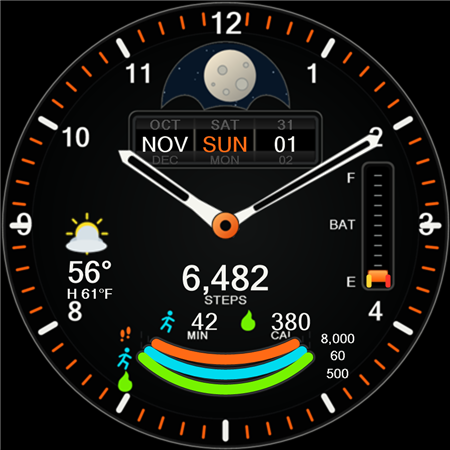
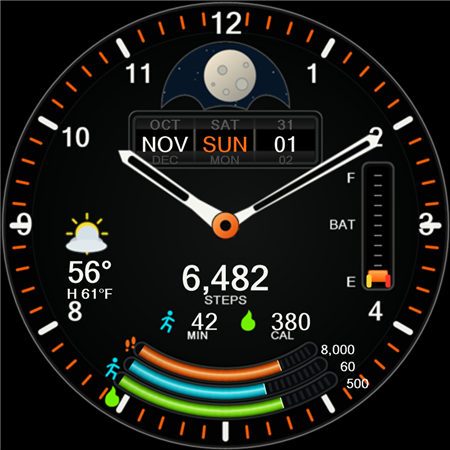
Rework activity indicators as concentric metal tracks

Changed region(s): [[0.2178, 0.7156, 0.84, 0.9333]]

diff --git a/README.md b/README.md
@@ -8,7 +8,9 @@ scaled by Wear OS to the display. Artwork follows
 The native face includes skeleton analog hands, a two-moon mechanical disc
 behind a cut-out aperture, month/weekday/date drums with adjacent entries, a
 battery slider and steady low-battery lamps, a weather/custom-data inset, and
-three recessed activity gauges. Date changes are instantaneous, not animated.
+three concentric activity bands centered on the hand spindle. The colored
+bands have a metallic sheen and sharp cut edges; fine rack teeth are exposed
+in the unfilled recessed tracks. Date changes are instantaneous, not animated.
 Optional seconds tick at 1 Hz and default **off**. Seconds disappear at 15%
 battery or below. Always-on mode keeps only dimmed hour/minute hands and sparse
 indices on black.
@@ -27,7 +29,7 @@ The [data-source verification](docs/data-sources.md) was written before the data
 displays. Samsung Health phone SDK data and actual on-watch complication
 availability are different interfaces. Installed service declarations and their
 supported types have now been [verified on the watch](docs/device-providers.md).
-Version 0.1.3 is installed and active on the physical watch. Awake rendering,
+Version 0.2.0 is installed and active on the physical watch. Awake rendering,
 live Samsung Health steps (`RANGED_VALUE`), and native weather current / high /
 condition have been observed. Goal synchronization, source-app comparisons,
 other activity payloads, ambient behavior, and battery-life measurements still
@@ -110,7 +112,7 @@ face, add **Emberphase**, and open its editor. For activity source selection use
 | Slot | Editor selection point |
 | --- | --- |
 | Steps (20) | Large steps number |
-| Active minutes (30) | Cyan runner at the left of the gauges |
+| Active minutes (30) | Left side of the cyan runner beside the tracks |
 | Activity calories (40) | Bottom of the green gauge |
 | Custom left inset (10) | Left weather area, after choosing Custom complication |
 
@@ -118,7 +120,10 @@ The activity clip bounds contain both each value and its separated gauge, so
 the rectangular regions overlap. These selection points do not overlap. A tap
 elsewhere inside overlapping regions can resolve to another activity slot.
 One provider subscription per metric keeps the numeric value and its gauge in
-the same data context.
+the same data context. In 450-unit canvas coordinates the distinct activity
+anchors are steps `(225,275)`, minutes `(110,372)`, and calories `(225,411)`.
+The teeth and bevels are static artwork; the native gradient bands and their
+edges change only with provider data. All activity artwork is hidden in ambient.
 
 Capture available provider declarations:
 

diff --git a/docs/validation.md b/docs/validation.md
@@ -1,7 +1,7 @@
 # Validation record
 
 2026-11-01. Windows, Android SDK 36 / build-tools 36.0.0, Android Studio JDK 25,
-Gradle 9.3.1, AGP 9.1.1. Version 0.1.3 was installed and activated on the
+Gradle 9.3.1, AGP 9.1.1. Version 0.2.0 was installed and activated on the
 physical SM-R950. Awake rendering, live step text/gauge, and native weather
 current temperature / high / condition were observed. Goal synchronization,
 source-app comparisons, ambient behavior, and battery-life checks are pending.
@@ -18,7 +18,7 @@ source-app comparisons, ambient behavior, and battery-life checks are pending.
 | Google WFF memory evaluator | Passed 10 MiB active / 4 MiB ambient budgets |
 | Maximum active decoded-resource estimate | 4,272,132 bytes (4.07 MiB) |
 | Maximum ambient decoded-resource estimate | 835,872 bytes (0.80 MiB) |
-| Physical watch install / activation / awake rendering | Passed with 0.1.3; observed via ADB screenshot |
+| Physical watch install / activation / awake rendering | Passed with 0.2.0; observed via ADB screenshot, including concentric tracks and live metal band |
 | Samsung steps payload | Live RANGED_VALUE observed from Samsung Health steps service; explicit goal not established |
 | Native weather availability | Unavailable state followed by current temperature, daily high, and condition icon |
 | Other activity payloads / source-app comparisons / ambient / battery life | Pending |
@@ -52,3 +52,14 @@ Previews are illustrative artwork composites. The native moon position is
 coarse; the rotating disc is decorative. Decoded-resource estimates are not
 measurements of RAM resident on Samsung firmware or of battery consumption.
 Use `device-acceptance.md` for the remaining physical-device checks.
+
+The 0.2.0 activity redesign replaces the offset elliptical gauges with circular
+arcs centered at (225,225), using radii 150, 168, and 186. Recessed bevels and
+subtle radial rack teeth are baked into the dial. Opaque native radial-gradient
+strokes conceal the teeth behind filled progress; butt caps and a narrow moving
+cut-edge highlight keep the leading edge sharp. Geometry checks cover circular
+centers/radii, full progress clip bounds, monotonic gradient stops, and edge
+alignment with both goal and ranged progress. No animation, sensor subscription,
+or additional complication subscription was added. The host preview also fixes
+PowerShell's integer-overload rounding of fractional progress, so its fixture
+bands now show their actual partial fills.

diff --git a/docs/device-acceptance.md b/docs/device-acceptance.md
@@ -1,12 +1,18 @@
 # Watch6 device acceptance
 
-Status: **0.1.3 installed, activated, and rendering on the SM-R950** on
+Status: **0.2.0 installed, activated, and rendering on the SM-R950** on
 2026-11-01. ADB activation succeeded and an awake screenshot confirmed the
 analog hands, moon disc, correct NOV / SUN / 01 drums, battery slider, live
 steps, and native current temperature / daily high / weather icon. Weather
 initially showed the unavailable state, then populated without changing the
 selected mode. The step source resolved to Samsung Health's steps service and
 returned `RANGED_VALUE`; its explicit goal remains unknown.
+
+The 0.2.0 awake screenshot also confirms the activity channels are concentric
+with the hand spindle, with metallic orange progress and a sharp cut edge over
+the exposed toothed track. Cyan/green filled bands are shown in the illustrative
+previews; their providers remain unset on the watch. Schema, memory, Gradle
+resource-only, lint, and expression/geometry checks pass for this revision.
 
 See [installed provider findings](device-providers.md). Goal synchronization,
 active minutes/calories, comparison against the source apps, editor behavior,
